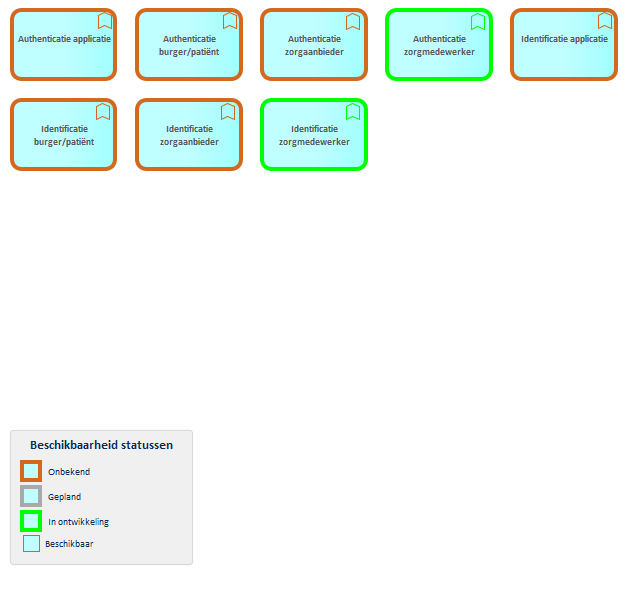
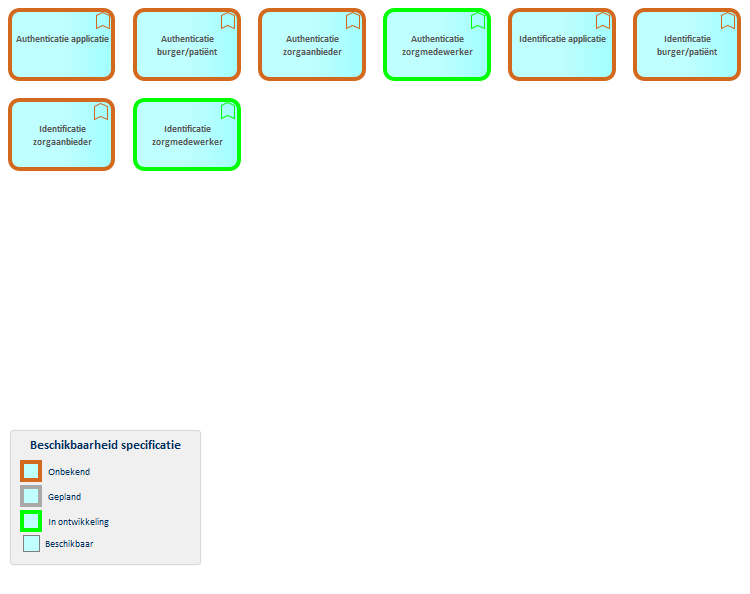
update

Changed region(s): [[0.0, 0.0, 1.0, 0.303], [0.0, 0.7273, 0.2727, 0.9394]]

diff --git a/docs/EARoot/EA6/EA1/EA68.htm b/docs/EARoot/EA6/EA1/EA68.htm
@@ -2,7 +2,7 @@
 <html xmlns="http://www.w3.org/1999/xhtml">
 <head>
 <meta http-equiv="Content-Type" content="text/html; charset=UTF-8" />
-<title>Beschikbaarheid statussen</title>
+<title>Beschikbaarheid specificatie</title>
 <link href="../../../css/ea.css" rel="stylesheet" type="text/css" />
 <script language="JavaScript" src="../../../js/displayToc.js" type="text/javascript"></script>
 <script>
@@ -64,12 +64,12 @@
 <div class="section group" >
 
 		<div class="col span_2_of_2 header_frame">
-			<h1> Beschikbaarheid statussen </h1>
+			<h1> Beschikbaarheid specificatie </h1>
 			<!-- <img class="header_image" src="../../../images/ea-banner.png" align="right" alt="Header Image" />-->
 			<img class="header_image" src="../../../images/ea-banner.png" align="right" alt="Header Image" />
 		</div>
 		<div class="col span_2_of_2 breadcrumb_frame">
-			<p><a href="../../../index.htm">Architectuur-GIS</a> / <a href="../EA65.htm">Hulpmiddelen</a> / <a href="EA67.htm">Legenda's</a> / <a href="EA68.htm">Beschikbaarheid statussen</a></p>
+			<p><a href="../../../index.htm">Architectuur-GIS</a> / <a href="../EA65.htm">Hulpmiddelen</a> / <a href="EA67.htm">Legenda's</a> / <a href="EA68.htm">Beschikbaarheid specificatie</a></p>
 		</div>
 			
 		<table class="contentmaintable">
@@ -90,9 +90,9 @@
 					</td>
 					<td class="contentcell"><div class="pageHeader"></div>
 <div class="PageBody">
-	<!-- <span class="ObjectTitle">Beschikbaarheid statussen  : Public   Legend</span> -->
+	<!-- <span class="ObjectTitle">Beschikbaarheid specificatie  : Public   Legend</span> -->
 	<!-- CUSTOM -->
-	<span class="ObjectTitle">Beschikbaarheid statussen</span>
+	<span class="ObjectTitle">Beschikbaarheid specificatie</span>
 	<div class="ObjectDetailsNotes">&lt;b&gt;Onbekend&lt;/b&gt;&lt;br/&gt;Onbekend&lt;br/&gt;&lt;b&gt;&lt;br/&gt;&lt;/b&gt;&lt;b&gt;Gepland&lt;/b&gt;&lt;br/&gt;Specificaties zijn voozien en gepland&lt;br/&gt;&lt;br/&gt;&lt;b&gt;In ontwikkeling&lt;/b&gt;&lt;br/&gt;Speficaties zijn in ontwikkeling&lt;br/&gt;&lt;br/&gt;&lt;b&gt;Beschikbaar&lt;/b&gt;&lt;br/&gt;Specificaties zijn beschikbaar voor gebruik.&lt;br/&gt;</div>
 
 	<hr>
@@ -105,7 +105,7 @@
 		</tr>
 		<tr>
 			<td class="ObjectDetailsTopic">Modified:</td>
-			<td class="ObjectDetailsValue">2-9-2025 10:10:50</td>
+			<td class="ObjectDetailsValue">2-9-2025 14:16:22</td>
 		</tr>
 		<tr style="height: 10px"><td colspan="2"></td></tr>
 		<tr>
@@ -168,7 +168,7 @@
 		</tr>
 		<tr>
 			<td class="ObjectDetailsTopic">Gewijzigd:</td>
-			<td class="ObjectDetailsValue">2-9-2025 10:10:50</td>
+			<td class="ObjectDetailsValue">2-9-2025 14:16:22</td>
 		</tr>
         <tr>
 			<td class="ObjectDetailsTopic">Versie:</td>
@@ -186,7 +186,7 @@
 	<table border="0" class="ObjectDetails">
 		<tr>
 			<td class="ObjectDetailsTopic">Reactie:</td>
-			<td class="ObjectDetailsValue"><a href="https://github.com/MarcelSchrauwen/ea-gis/issues/new?title=Reactie:+Legend+-+Beschikbaarheid statussen&body=Het+helpt+als+je+hier+een+link+naar+het+onderwerp+toevoegt.">New Github Issue</a></td>
+			<td class="ObjectDetailsValue"><a href="https://github.com/MarcelSchrauwen/ea-gis/issues/new?title=Reactie:+Legend+-+Beschikbaarheid specificatie&body=Het+helpt+als+je+hier+een+link+naar+het+onderwerp+toevoegt.">New Github Issue</a></td>
 		</tr>
 	</table>
 	<hr>

diff --git a/docs/EARoot/EA4/EA1/EA61.htm b/docs/EARoot/EA4/EA1/EA61.htm
@@ -85,7 +85,7 @@
 						<!-- <div class="projectBrowserTitle">Project: </div> -->
 						<div class="projectBrowserTitle"></div>
 						<ul>
-<li><img src="../../../images/175.png" alt=""/> <a href="EA61.htm">Realisatie specificaties applicatiefuncties</a></li>
+<li><img src="../../../images/175.png" alt="Diagram"/> <a href="EA61.htm">Realisatie specificaties applicatiefuncties</a></li>
 </ul>
 
 					</td>
@@ -100,15 +100,15 @@
 <img src="EA62.png" usemap="#EA62" border="0" />
 
 <MAP NAME="EA62">
-<area shape="rect" coords="12,10,117,80" href="../../EA1/EA2/EA1/EA33.htm" target="_self">
-<area shape="rect" coords="512,10,617,80" href="../../EA1/EA2/EA1/EA37.htm" target="_self">
-<area shape="rect" coords="137,10,242,80" href="../../EA1/EA2/EA1/EA34.htm" target="_self">
-<area shape="rect" coords="12,100,117,170" href="../../EA1/EA2/EA1/EA38.htm" target="_self">
-<area shape="rect" coords="262,10,367,80" href="../../EA1/EA2/EA1/EA35.htm" target="_self">
-<area shape="rect" coords="137,100,242,170" href="../../EA1/EA2/EA1/EA39.htm" target="_self">
-<area shape="rect" coords="10,430,193,565" href="../../EA6/EA1/EA68.htm" target="_self">
-<area shape="rect" coords="262,100,367,170" href="../../EA1/EA2/EA1/EA40.htm" target="_self">
-<area shape="rect" coords="387,10,492,80" href="../../EA1/EA2/EA1/EA36.htm" target="_self">
+<area shape="rect" coords="135,100,240,170" href="../../EA1/EA2/EA1/EA40.htm" target="_self">
+<area shape="rect" coords="10,100,115,170" href="../../EA1/EA2/EA1/EA39.htm" target="_self">
+<area shape="rect" coords="635,10,740,80" href="../../EA1/EA2/EA1/EA38.htm" target="_self">
+<area shape="rect" coords="510,10,615,80" href="../../EA1/EA2/EA1/EA37.htm" target="_self">
+<area shape="rect" coords="385,10,490,80" href="../../EA1/EA2/EA1/EA36.htm" target="_self">
+<area shape="rect" coords="260,10,365,80" href="../../EA1/EA2/EA1/EA35.htm" target="_self">
+<area shape="rect" coords="135,10,240,80" href="../../EA1/EA2/EA1/EA34.htm" target="_self">
+<area shape="rect" coords="10,10,115,80" href="../../EA1/EA2/EA1/EA33.htm" target="_self">
+<area shape="rect" coords="10,430,201,565" href="../../EA6/EA1/EA68.htm" target="_self">
 </MAP>
  </div>
 	<!-- <div class="ObjectTitle">Realisatie specificaties applicatiefuncties : Application Layer diagram</div> -->
@@ -120,7 +120,7 @@
 		</tr>
 		<tr>
 			<td width="15%" class="ObjectDetailsTopic">Modified:</td>
-			<td width="85%" class="ObjectDetailsValue">2-9-2025 10:15:22</td>
+			<td width="85%" class="ObjectDetailsValue">2-9-2025 14:16:48</td>
 		</tr>
 		<tr style="padding-top: 10px;">
 			<td width="15%" class="ObjectDetailsTopic"><button onclick="switchProjectProperties()"><img src="../../../images/plus03.gif" align="absmiddle" id="proj" /></button>Project:</td>
@@ -150,7 +150,7 @@
 		</tr>
 		<tr>
 			<td width="15%" class="ObjectDetailsTopic">Aangepast:</td>
-			<td width="85%" class="ObjectDetailsValue">2-9-2025 10:15:22</td>
+			<td width="85%" class="ObjectDetailsValue">2-9-2025 14:16:48</td>
 		</tr>
 		<tr>
 			<td width="15%" class="ObjectDetailsTopic">Versie:</td>

diff --git a/docs/EARoot/EA1/EA2/EA1/EA38.htm b/docs/EARoot/EA1/EA2/EA1/EA38.htm
@@ -85,9 +85,9 @@
 						<!-- <div class="projectBrowserTitle">Project: </div> -->
 						<div class="projectBrowserTitle"></div>
 						<ul>
-<li><img src="../../../../images/175.png" alt=""/> <a href="EA26.htm">01. Afspraken - Identificatie burger/patiënt</a></li>
-<li><img src="../../../../images/175.png" alt=""/> <a href="EA28.htm">02. Specificatie - Identificatie burger/patiënt</a></li>
-<li><img src="../../../../images/175.png" alt=""/> <a href="EA30.htm">03. Implementatie - Identificatie burger/patiënt</a></li>
+<li><img src="../../../../images/175.png" alt="Diagram"/> <a href="EA26.htm">01. Afspraken - Identificatie burger/patiënt</a></li>
+<li><img src="../../../../images/175.png" alt="Diagram"/> <a href="EA28.htm">02. Specificatie - Identificatie burger/patiënt</a></li>
+<li><img src="../../../../images/175.png" alt="Diagram"/> <a href="EA30.htm">03. Implementatie - Identificatie burger/patiënt</a></li>
 </ul>
 
 					</td>
@@ -208,7 +208,7 @@
 			<td width="50%" class="TableHeading">Value</td>
 		</tr>
 					<tr>
-				<td width="50%" class="TableRow" valign="top">Beschikbaarheid</td>
+				<td width="50%" class="TableRow" valign="top">Realisatie specificaties</td>
 				<td width="50%" class="TableRow" valign="top">Onbekend</td>
 			</tr>	
 			<tr>

diff --git a/docs/EARoot/EA1/EA2/EA1/EA26.htm b/docs/EARoot/EA1/EA2/EA1/EA26.htm
@@ -85,9 +85,9 @@
 						<!-- <div class="projectBrowserTitle">Project: </div> -->
 						<div class="projectBrowserTitle"></div>
 						<ul>
-<li><img src="../../../../images/175.png" alt=""/> <a href="EA26.htm">01. Afspraken - Identificatie burger/patiënt</a></li>
-<li><img src="../../../../images/175.png" alt=""/> <a href="EA28.htm">02. Specificatie - Identificatie burger/patiënt</a></li>
-<li><img src="../../../../images/175.png" alt=""/> <a href="EA30.htm">03. Implementatie - Identificatie burger/patiënt</a></li>
+<li><img src="../../../../images/175.png" alt="Diagram"/> <a href="EA26.htm">01. Afspraken - Identificatie burger/patiënt</a></li>
+<li><img src="../../../../images/175.png" alt="Diagram"/> <a href="EA28.htm">02. Specificatie - Identificatie burger/patiënt</a></li>
+<li><img src="../../../../images/175.png" alt="Diagram"/> <a href="EA30.htm">03. Implementatie - Identificatie burger/patiënt</a></li>
 </ul>
 
 					</td>

diff --git a/docs/EARoot/EA1/EA2/EA1/EA28.htm b/docs/EARoot/EA1/EA2/EA1/EA28.htm
@@ -85,9 +85,9 @@
 						<!-- <div class="projectBrowserTitle">Project: </div> -->
 						<div class="projectBrowserTitle"></div>
 						<ul>
-<li><img src="../../../../images/175.png" alt=""/> <a href="EA26.htm">01. Afspraken - Identificatie burger/patiënt</a></li>
-<li><img src="../../../../images/175.png" alt=""/> <a href="EA28.htm">02. Specificatie - Identificatie burger/patiënt</a></li>
-<li><img src="../../../../images/175.png" alt=""/> <a href="EA30.htm">03. Implementatie - Identificatie burger/patiënt</a></li>
+<li><img src="../../../../images/175.png" alt="Diagram"/> <a href="EA26.htm">01. Afspraken - Identificatie burger/patiënt</a></li>
+<li><img src="../../../../images/175.png" alt="Diagram"/> <a href="EA28.htm">02. Specificatie - Identificatie burger/patiënt</a></li>
+<li><img src="../../../../images/175.png" alt="Diagram"/> <a href="EA30.htm">03. Implementatie - Identificatie burger/patiënt</a></li>
 </ul>
 
 					</td>

diff --git a/docs/EARoot/EA1/EA2/EA1/EA30.htm b/docs/EARoot/EA1/EA2/EA1/EA30.htm
@@ -85,9 +85,9 @@
 						<!-- <div class="projectBrowserTitle">Project: </div> -->
 						<div class="projectBrowserTitle"></div>
 						<ul>
-<li><img src="../../../../images/175.png" alt=""/> <a href="EA26.htm">01. Afspraken - Identificatie burger/patiënt</a></li>
-<li><img src="../../../../images/175.png" alt=""/> <a href="EA28.htm">02. Specificatie - Identificatie burger/patiënt</a></li>
-<li><img src="../../../../images/175.png" alt=""/> <a href="EA30.htm">03. Implementatie - Identificatie burger/patiënt</a></li>
+<li><img src="../../../../images/175.png" alt="Diagram"/> <a href="EA26.htm">01. Afspraken - Identificatie burger/patiënt</a></li>
+<li><img src="../../../../images/175.png" alt="Diagram"/> <a href="EA28.htm">02. Specificatie - Identificatie burger/patiënt</a></li>
+<li><img src="../../../../images/175.png" alt="Diagram"/> <a href="EA30.htm">03. Implementatie - Identificatie burger/patiënt</a></li>
 </ul>
 
 					</td>

diff --git a/docs/EARoot/EA4/EA60.htm b/docs/EARoot/EA4/EA60.htm
@@ -85,7 +85,7 @@
 						<!-- <div class="projectBrowserTitle">Project: </div> -->
 						<div class="projectBrowserTitle"></div>
 						<ul>
-<li><img src="../../images/175.png" alt=""/> <a href="./EA1/EA61.htm">Realisatie specificaties applicatiefuncties</a></li>
+<li><img src="../../images/175.png" alt="Diagram"/> <a href="./EA1/EA61.htm">Realisatie specificaties applicatiefuncties</a></li>
 </ul>
 
 					</td>

diff --git a/docs/EARoot/EA4/EA1/EA63.htm b/docs/EARoot/EA4/EA1/EA63.htm
@@ -85,7 +85,7 @@
 						<!-- <div class="projectBrowserTitle">Project: </div> -->
 						<div class="projectBrowserTitle"></div>
 						<ul>
-<li><img src="../../../images/175.png" alt=""/> <a href="EA61.htm">Realisatie specificaties applicatiefuncties</a></li>
+<li><img src="../../../images/175.png" alt="Diagram"/> <a href="EA61.htm">Realisatie specificaties applicatiefuncties</a></li>
 </ul>
 
 					</td>

diff --git a/docs/EARoot/EA6/EA66.htm b/docs/EARoot/EA6/EA66.htm
@@ -85,7 +85,7 @@
 						<!-- <div class="projectBrowserTitle">Project: </div> -->
 						<div class="projectBrowserTitle"></div>
 						<ul>
-<li><img src="../../images/329.png" alt="Text"/> <a href="./EA1/EA68.htm">Beschikbaarheid statussen</a></li>
+<li><img src="../../images/329.png" alt="Text"/> <a href="./EA1/EA68.htm">Beschikbaarheid specificatie</a></li>
 </ul>
 
 					</td>

diff --git a/docs/EARoot/EA6/EA1/EA67.htm b/docs/EARoot/EA6/EA1/EA67.htm
@@ -85,7 +85,7 @@
 						<!-- <div class="projectBrowserTitle">Project: </div> -->
 						<div class="projectBrowserTitle"></div>
 						<ul>
-<li><img src="../../../images/329.png" alt="Text"/> <a href="EA68.htm">Beschikbaarheid statussen</a></li>
+<li><img src="../../../images/329.png" alt="Text"/> <a href="EA68.htm">Beschikbaarheid specificatie</a></li>
 </ul>
 
 					</td>

diff --git a/docs/EARoot/EA1/EA2/EA1/EA36.htm b/docs/EARoot/EA1/EA2/EA1/EA36.htm
@@ -205,7 +205,7 @@
 			<td width="50%" class="TableHeading">Value</td>
 		</tr>
 					<tr>
-				<td width="50%" class="TableRow" valign="top">Beschikbaarheid</td>
+				<td width="50%" class="TableRow" valign="top">Realisatie specificaties</td>
 				<td width="50%" class="TableRow" valign="top">In ontwikkeling</td>
 			</tr>	
 			<tr>

diff --git a/docs/EARoot/EA1/EA2/EA1/EA40.htm b/docs/EARoot/EA1/EA2/EA1/EA40.htm
@@ -205,7 +205,7 @@
 			<td width="50%" class="TableHeading">Value</td>
 		</tr>
 					<tr>
-				<td width="50%" class="TableRow" valign="top">Beschikbaarheid</td>
+				<td width="50%" class="TableRow" valign="top">Realisatie specificaties</td>
 				<td width="50%" class="TableRow" valign="top">In ontwikkeling</td>
 			</tr>	
 			<tr>
